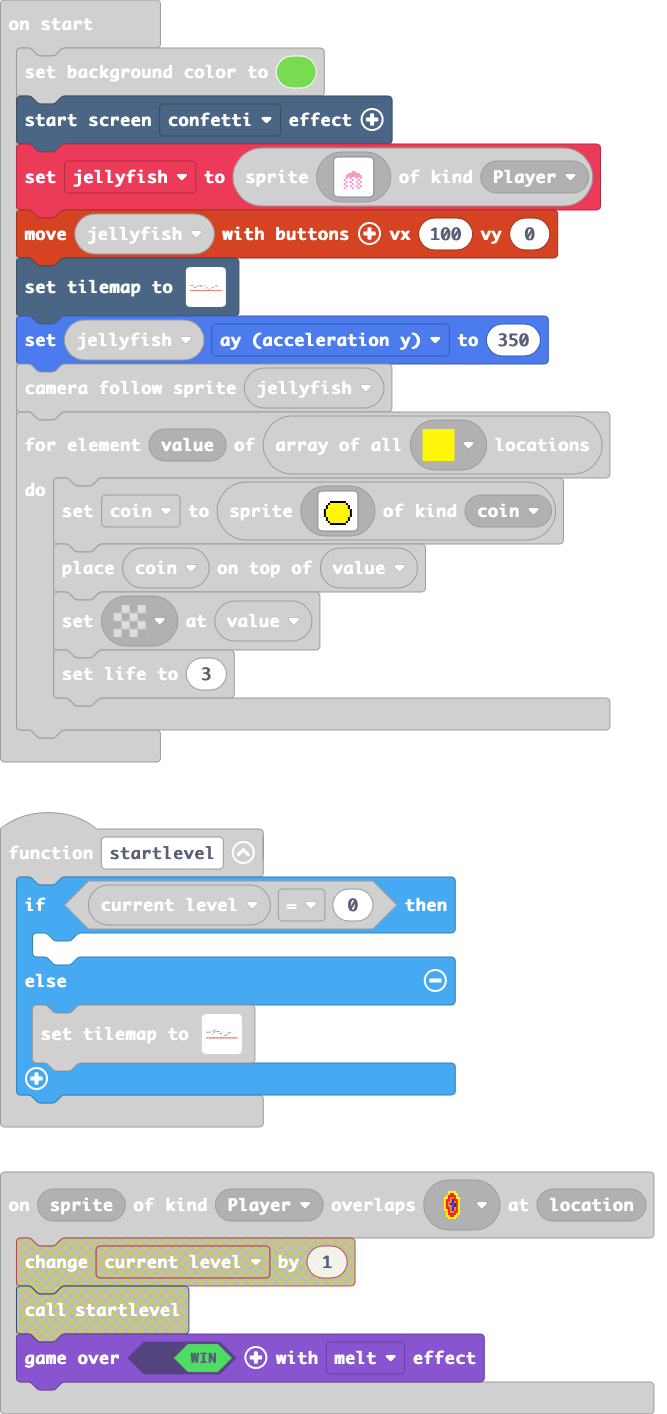
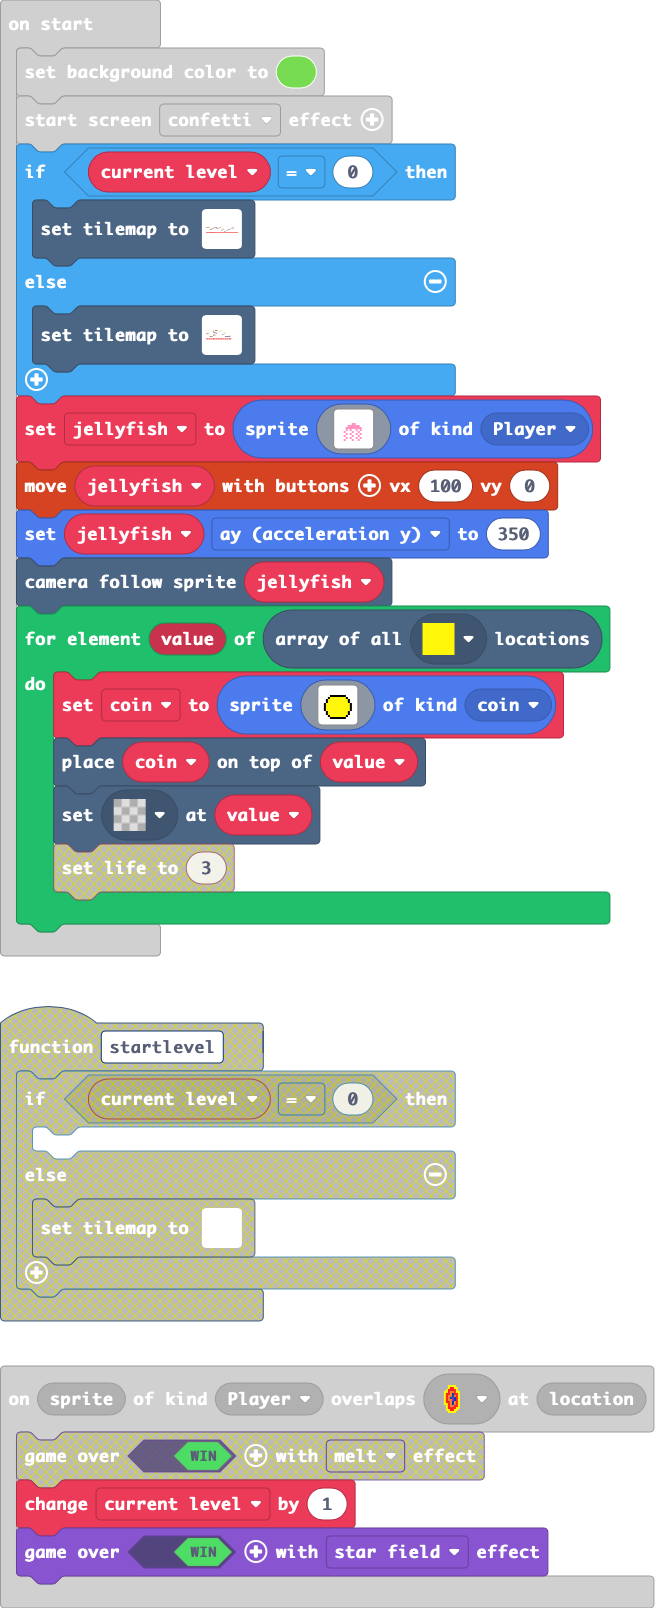
Update main.blocks, main.ts

diff --git a/main.ts b/main.ts
@@ -2,7 +2,8 @@ namespace SpriteKind {
     export const coin = SpriteKind.create()
 }
 scene.onOverlapTile(SpriteKind.Player, myTiles.tile2, function (sprite, location) {
-    game.over(true, effects.melt)
+    current_level += 1
+    game.over(true, effects.starField)
 })
 controller.A.onEvent(ControllerButtonEvent.Pressed, function () {
     if (jellyfish.vy == 0) {
@@ -13,38 +14,57 @@ sprites.onOverlap(SpriteKind.Player, SpriteKind.coin, function (sprite, otherSpr
     info.changeScoreBy(1)
     otherSprite.destroy()
 })
-function startlevel () {
-    let current_level = 0
-    if (current_level == 0) {
-    	
-    } else {
-        tiles.setTilemap(tiles.createTilemap(hex`320010000000000000000000000000000000000000000000000000000000000000000000000000000000000000000000000000000000000000000000000000000000000000000000000000000000000000000000000000000000000000000000000000000000000000000000000000000000000000000004000000000000000000000000000000000000000000000000000000000000000000000000000000000000000000000300000000000000000000000000000000000000000000000000000000000000000000000000000000000000000000000404040400000000000000000000000000000000000000000000000000000000000000000000000000000000000000030000000000000004000404040400000000000300000000000000000000000000000000000000000000000404040404040404000000000003000000000000000000000000040000000000000000000000020000000000000000000000000000000000000000000000040400000000000000000000000000000000000000000004040404000000000000000000000000000000000000000000000000000000000000000000040404000000000000000003000000000000000000000000000000000000000000000000000404000000000000000000000000000000000000000000040404000000000000000000000000000000000000000000000000000000000000000000000000000000000000000000000000000000000000000000000000000000000000000000000000000000000000000000000000000000000000000000000404040000000000000000000000000000000000000000000000000000000000000000000000000000000000000000000000000000000000000000000000000000000000000000000000000000000000000000000000000000000000000000000000000000000000000000000000000000000000000000000000000000000000000000000000000000000000000000000000000000000000000000000000000000000000000000000000000101010101010101010101010101010101010101010101010101010101010101010101010101010101010101010101010101`, img`
-            ..................................................
-            ..................................................
-            ...............2..................................
-            ..................................................
-            ..........2222....................................
-            ...............2.2222.............................
-            22222222..................2.......................
-            ............22.....................2222...........
-            ......................222.........................
-            .........22.....................222...............
-            ..................................................
-            .............................222..................
-            ..................................................
-            ..................................................
-            ..................................................
-            ..................................................
-            `, [myTiles.transparency16,myTiles.tile1,myTiles.tile2,myTiles.tile3,sprites.castle.rock2], TileScale.Sixteen))
-    }
-}
 scene.onOverlapTile(SpriteKind.Player, myTiles.tile1, function (sprite, location) {
     game.over(false, effects.melt)
 })
 let coin: Sprite = null
 let jellyfish: Sprite = null
+let current_level = 0
 scene.setBackgroundColor(7)
 effects.confetti.startScreenEffect()
+if (current_level == 0) {
+    tiles.setTilemap(tiles.createTilemap(hex`5000140000000000000000000000000000000000000000000000000000000000000000000000000000000000000000000000000000000000000000000000000000000000000000000000000000000000000000000000000000000000000000000000000000000000000000000000000000000000000000000000000000000000000000000000000000000000000000000000000000000000000000000000000000000000000000000000000000000000000000000000000000000000000000000000000000000000000000000000000000000000000000000000000000000000000000000000000000000000000000000000000000000000000000000000000000000000000000000000000000000000000000000000000000000000000000000000000000000000000000000000000000000000000000000000000000000000000000000000000000000000040000000000000000000000000000000000000000000000000000040000000000000000000000000000000000000000000000000000000000000000000000000000000000000000010101010101010101000000000000000000000000000000040000000000000000000101010000000000000000000000000000000000000000000000000000000000000000000000000000000000000000000000000000000000000000000000000000000000010001000100000000000000000000000000000000000000000000000000000000000000000000000000000000000003000000000000000000000000000000000000000000000000000000000001010000000000000000000001010000000000000000000000000000000000000000000000000000000000000001010101010100000000000000000000000000000000000000000000000000000001000000000000000000010101000000000000000000000000000000000000000000000000000000000000000001000000000000000000000000000000000000000000000000000000000000040001010000000000000000000000000000000000000000000000000000040000000000000000000000000000000001000000000000000000000000000000000000000000000000000000000000000001000000000000000000000000000000000000000000000000000000000001000000000000000000000000040001000000000000000000000000000000000000000000000000000000000000000101010000000000000000000000000000000000000000000000000000000000000000000000000000000000000001000000000000000000000000000000000000000000000000000000000000000000000000000000000000000000000000000000000000000000000000000101010100000000000000000000000001000000000000000000000000000000000000000000000000000000000000000000000000000000000000000000000000000000000000000000000000000000000000000000000000000000000001000000000000000000000000000000000000000000000000000000000000000000000000000000000000000000000000000000000000000000000000000000000000000000000000000000000001000000000000000000000000000000000000000000000000000000000000000000000000000000000000000000000000000000000000000000000000000000000000000000000000000000010101000000000000000000000000000000000000000000000000000000000000000000000000000000000000000000000000000000000000000000000000000000000000000000000000000000000000000000000000000000000000000000000000000000000000000000000000000000000000000000000000000000000000000000000000000000000000000000000000000000000000000000000000000000000000000000000000000000000000000000000000000000000000000000000000000000000000000000000000000000000000000000000000000000000000000000000000000000000000000000000000000000000000000000000000000000000000000000000000000000000000000202020202020202020202020202020202020202020202020202020202020202020202020202020202020202020202020202020202020202020202020202020202020202020202020202020202020202`, img`
+        ................................................................................
+        ................................................................................
+        ................................................................................
+        ................................................................................
+        ................................................................................
+        222222222.........................222...........................................
+        ......................2.2.2.....................................................
+        ...................22..........22...............................222222..........
+        .................2.........222................................2.................
+        ...............22...........................................2...................
+        .............2.............................2..............2.....................
+        ..........222...........................................2.......................
+        ......................................2222............2.........................
+        ....................................................2...........................
+        ..................................................2.............................
+        ..............................................222...............................
+        ................................................................................
+        ................................................................................
+        ................................................................................
+        ................................................................................
+        `, [myTiles.transparency16,sprites.castle.rock2,myTiles.tile1,myTiles.tile2,myTiles.tile3], TileScale.Sixteen))
+} else {
+    tiles.setTilemap(tiles.createTilemap(hex`320010000000000000000000000000000000000000000000000000000000000000000000000000000000000000000000000000000000000000000000000000000000000000000000000000000000000000000000000000000000000000000000000000000000000000000000000000000000000300000404040400000000000300000000000000000000000000000000000000000000000000000000000000000000000000040000000000000000000000040000000000000000000000000000000000000000000000000000000000000000000000000000000000000000000004000000000000000000000000000000000000000000000000000000000000000000000000000000000004040400000000000000000000000000000300000000000000000000000000000000000000000000000300000000000000000000000004040000000000000000000004040000000000000000000000000000000000000000040404040400000000000000000000040000000000000000000000000000000000000000000000000000000000000000000000000000000000000000000003000000000000000000000000040400000000000000000000000000000000000000000000000000000000000000000000040404040000000000000000000000000000000000000000000000000000000000000000000000000000000000000000000000000000000000000000000000000000000000000000000000000200000000000000000000000000000000000004040404000000000000000000000000000000000000000004040404040404040000000000000000000000000000000000000000000000000000000000000000000000000000000000000000000000000000000000000000000000000000000000000000000000000000000000000000000000000000000000000000000000000000000000000000000000000000000000000000000000000000000000000000000000000000000000000000000000000000000000000000000000000000000000000101010101010101010101010101010101010101010101010101010101010101010101010101010100000000000000000000`, img`
+        ..................................................
+        ..................................................
+        ..............2222................................
+        ...........2...........2..........................
+        ....................2.............................
+        ............222...................................
+        ................22..........22....................
+        22222..........2..................................
+        .........................22.......................
+        ...........2222...................................
+        ..................................................
+        ......2222....................22222222............
+        ..................................................
+        ..................................................
+        ..................................................
+        ..................................................
+        `, [myTiles.transparency16,myTiles.tile1,myTiles.tile2,myTiles.tile3,sprites.castle.rock2], TileScale.Sixteen))
+}
 jellyfish = sprites.create(img`
     . . . . . . . . . . . . . . . . 
     . . . . . . . . . . . . . . . . 
@@ -64,28 +84,6 @@ jellyfish = sprites.create(img`
     . . . . . . . . . . . . . . . . 
     `, SpriteKind.Player)
 controller.moveSprite(jellyfish, 100, 0)
-tiles.setTilemap(tiles.createTilemap(hex`5000140000000000000000000000000000000000000000000000000000000000000000000000000000000000000000000000000000000000000000000000000000000000000000000000000000000000000000000000000000000000000000000000000000000000000000000000000000000000000000000000000000000000000000000000000000000000000000000000000000000000000000000000000000000000000000000000000000000000000000000000000000000000000000000000000000000000000000000000000000000000000000000000000000000000000000000000000000000000000000000000000000000000000000000000000000000000000000000000000000000000000000000000000000000000000000000000000000000000000000000000000000000000000000000000000000000000000000000000000000000000040000000000000000000000000000000000000000000000000000040000000000000000000000000000000000000000000000000000000000000000000000000000000000000000010101010101010101000000000000000000000000000000040000000000000000000101010000000000000000000000000000000000000000000000000000000000000000000000000000000000000000000000000000000000000000000000000000000000010001000100000000000000000000000000000000000000000000000000000000000000000000000000000000000003000000000000000000000000000000000000000000000000000000000001010000000000000000000001010000000000000000000000000000000000000000000000000000000000000001010101010100000000000000000000000000000000000000000000000000000001000000000000000000010101000000000000000000000000000000000000000000000000000000000000000001000000000000000000000000000000000000000000000000000000000000040001010000000000000000000000000000000000000000000000000000040000000000000000000000000000000001000000000000000000000000000000000000000000000000000000000000000001000000000000000000000000000000000000000000000000000000000001000000000000000000000000040001000000000000000000000000000000000000000000000000000000000000000101010000000000000000000000000000000000000000000000000000000000000000000000000000000000000001000000000000000000000000000000000000000000000000000000000000000000000000000000000000000000000000000000000000000000000000000101010100000000000000000000000001000000000000000000000000000000000000000000000000000000000000000000000000000000000000000000000000000000000000000000000000000000000000000000000000000000000001000000000000000000000000000000000000000000000000000000000000000000000000000000000000000000000000000000000000000000000000000000000000000000000000000000000001000000000000000000000000000000000000000000000000000000000000000000000000000000000000000000000000000000000000000000000000000000000000000000000000000000010101000000000000000000000000000000000000000000000000000000000000000000000000000000000000000000000000000000000000000000000000000000000000000000000000000000000000000000000000000000000000000000000000000000000000000000000000000000000000000000000000000000000000000000000000000000000000000000000000000000000000000000000000000000000000000000000000000000000000000000000000000000000000000000000000000000000000000000000000000000000000000000000000000000000000000000000000000000000000000000000000000000000000000000000000000000000000000000000000000000000000000202020202020202020202020202020202020202020202020202020202020202020202020202020202020202020202020202020202020202020202020202020202020202020202020202020202020202`, img`
-    ................................................................................
-    ................................................................................
-    ................................................................................
-    ................................................................................
-    ................................................................................
-    222222222.........................222...........................................
-    ......................2.2.2.....................................................
-    ...................22..........22...............................222222..........
-    .................2.........222................................2.................
-    ...............22...........................................2...................
-    .............2.............................2..............2.....................
-    ..........222...........................................2.......................
-    ......................................2222............2.........................
-    ....................................................2...........................
-    ..................................................2.............................
-    ..............................................222...............................
-    ................................................................................
-    ................................................................................
-    ................................................................................
-    ................................................................................
-    `, [myTiles.transparency16,sprites.castle.rock2,myTiles.tile1,myTiles.tile2,myTiles.tile3], TileScale.Sixteen))
 jellyfish.ay = 350
 scene.cameraFollowSprite(jellyfish)
 for (let value of tiles.getTilesByType(myTiles.tile3)) {
@@ -109,5 +107,4 @@ for (let value of tiles.getTilesByType(myTiles.tile3)) {
         `, SpriteKind.coin)
     tiles.placeOnTile(coin, value)
     tiles.setTileAt(value, myTiles.transparency16)
-    info.setLife(3)
 }
